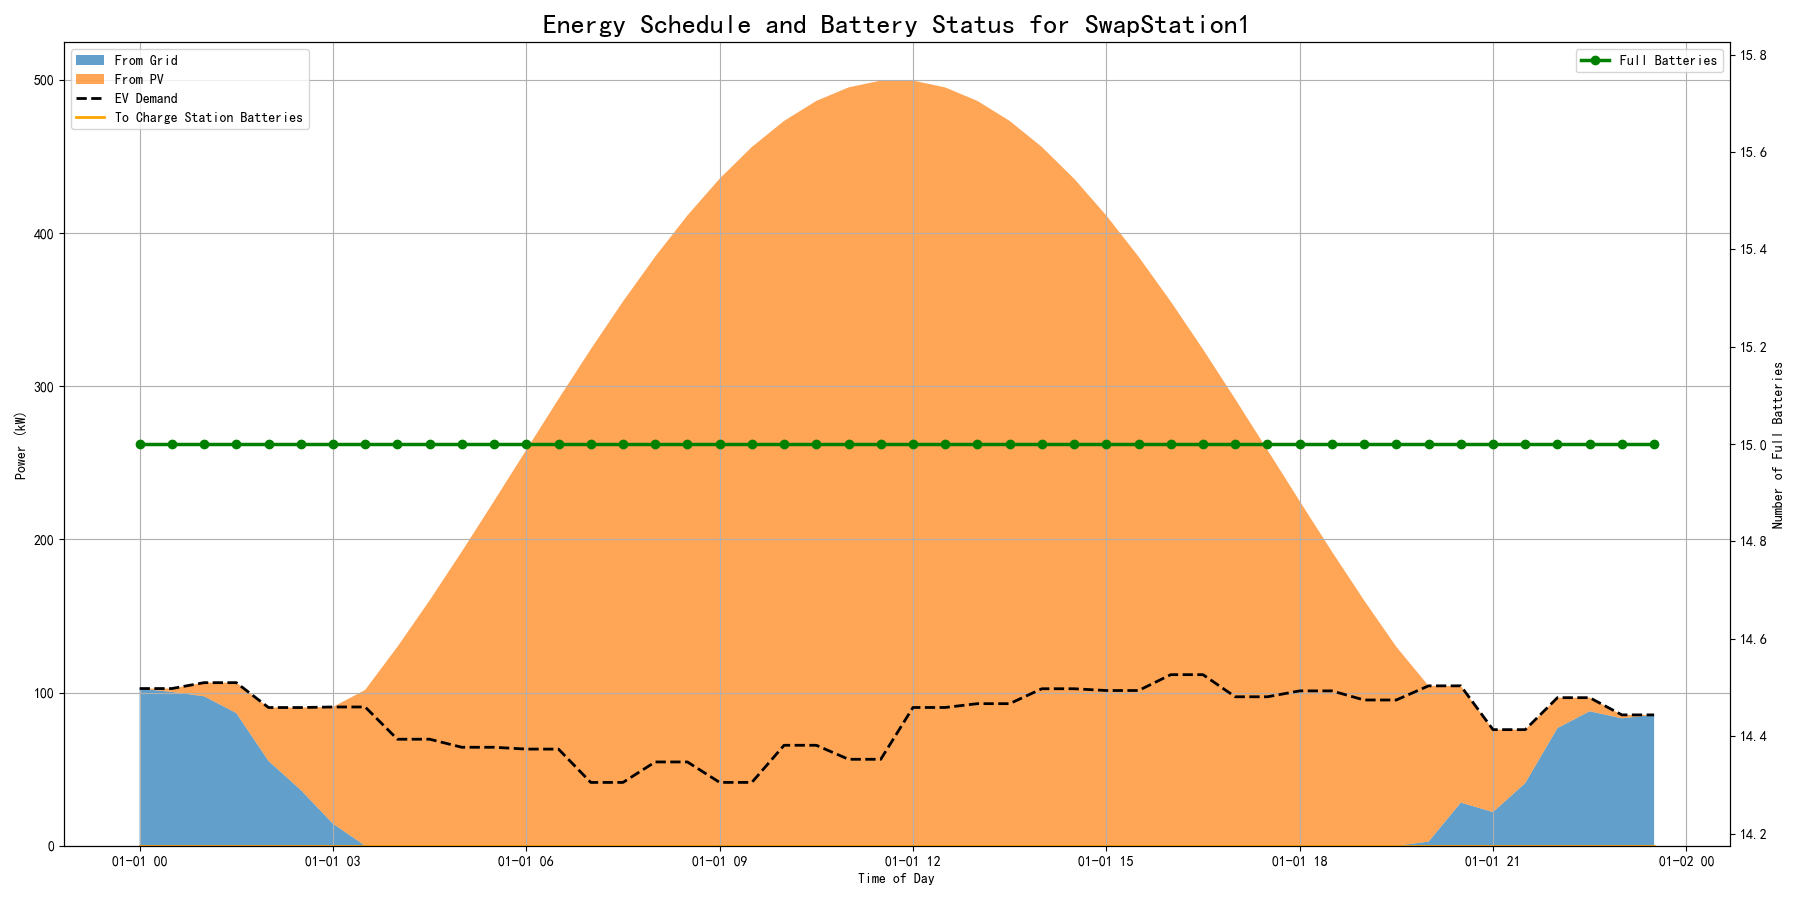
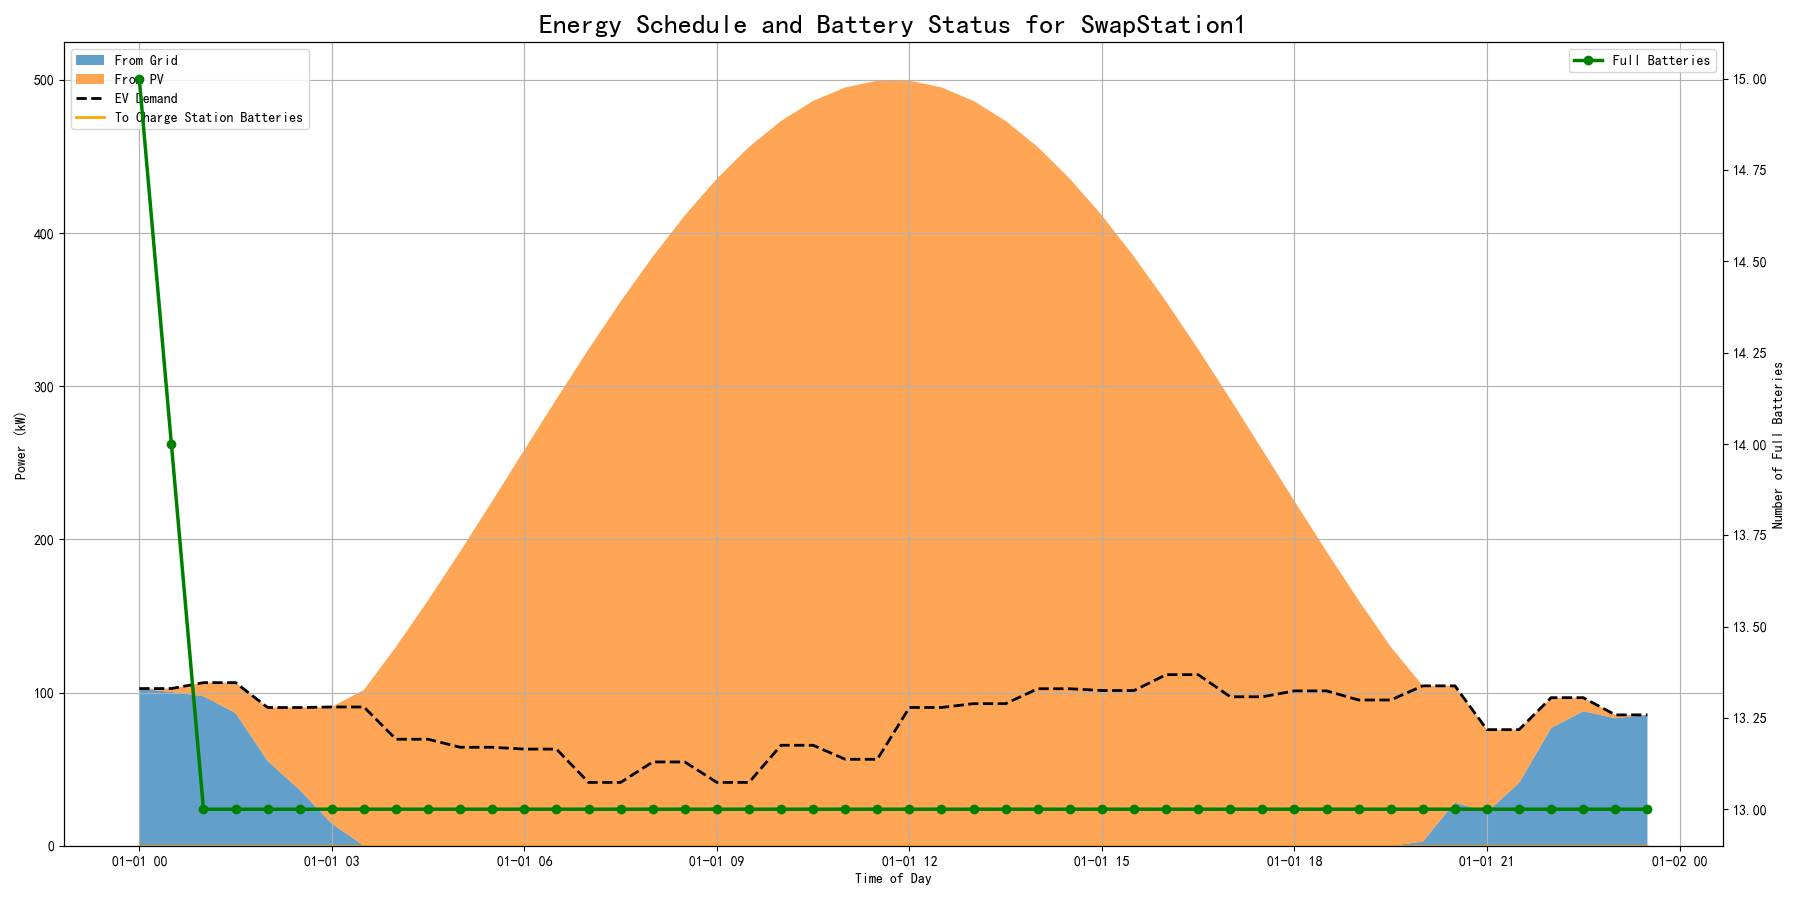
更新V2逻辑，增加可视化

diff --git a/HDT_Swapping_Optimization/src/modeling/model_final.py b/HDT_Swapping_Optimization/src/modeling/model_final.py
@@ -27,7 +27,7 @@ def create_final_model(data):
     # --- 2. 决策变量 ---
     model.x = Var(model.LOCATIONS, model.LOCATIONS, model.VEHICLES, within=Binary)
     model.y = Var(model.LOCATIONS, model.VEHICLES, within=Binary)
-    model.is_task_unassigned = Var(model.TASKS, within=Binary)
+    # model.is_task_unassigned = Var(model.TASKS, within=Binary)
     model.arrival_time = Var(model.LOCATIONS, model.VEHICLES, within=NonNegativeReals)
     model.soc_arrival = Var(model.LOCATIONS, model.VEHICLES, within=NonNegativeReals)
     model.weight_on_arrival = Var(model.LOCATIONS, model.VEHICLES, within=NonNegativeReals)
@@ -50,8 +50,9 @@ def create_final_model(data):
         grid_cost = sum(m.P_grid[s, t] * config.TIME_STEP_HOURS * data['electricity_prices'][t] for s, t in m.P_grid)
         delay_penalty = config.DELAY_PENALTY_PER_HOUR * sum(m.task_delay.values())
         ev_penalty = config.EV_UNSERVED_PENALTY_PER_KWH * sum(m.ev_unserved.values())
-        unassigned_penalty = config.UNASSIGNED_TASK_PENALTY * sum(m.is_task_unassigned.values())
-        return travel_cost + swap_cost + grid_cost + delay_penalty + ev_penalty + unassigned_penalty
+        # unassigned_penalty = config.UNASSIGNED_TASK_PENALTY * sum(m.is_task_unassigned.values())
+        # return travel_cost + swap_cost + grid_cost + delay_penalty + ev_penalty + unassigned_penalty
+        return travel_cost + swap_cost + grid_cost + delay_penalty + ev_penalty
 
     model.objective = Objective(rule=objective_rule, sense=minimize)
 
@@ -67,7 +68,8 @@ def create_final_model(data):
     # -- 任务与客户服务约束 --
     for t, t_info in data['tasks'].items():
         customer = t_info['delivery_to']
-        model.constrs.add(sum(model.y[customer, k] for k in model.VEHICLES) + model.is_task_unassigned[t] == 1)
+        # model.constrs.add(sum(model.y[customer, k] for k in model.VEHICLES) + model.is_task_unassigned[t] == 1)
+        model.constrs.add(sum(model.y[customer, k] for k in model.VEHICLES) == 1)
     for c in model.CUSTOMERS:
         model.constrs.add(sum(model.y[c, k] for k in model.VEHICLES) <= 1)
 

diff --git a/HDT_Swapping_Optimization/main_workflow_final.py b/HDT_Swapping_Optimization/main_workflow_final.py
@@ -49,13 +49,19 @@ def run_final_workflow():
 
         print("\n--- [诊断] 任务完成情况 ---")
         for t in model.TASKS:
-            if value(model.is_task_unassigned[t]) > 0.5:
-                print(f"  - 任务 '{t}' 被放弃，产生了 {config.UNASSIGNED_TASK_PENALTY} 的罚款。")
+            # if value(model.is_task_unassigned[t]) > 0.5:
+            #     print(f"  - 任务 '{t}' 被放弃，产生了 {config.UNASSIGNED_TASK_PENALTY} 的罚款。")
+            customer = model_data['tasks'][t]['delivery_to']
+            assigned_vehicle = next(
+                (k for k in model.VEHICLES if value(model.y[customer, k]) > 0.5),
+                None)
+            if assigned_vehicle is None:
+                print(f"  - 任务 '{t}' 无车辆完成，模型可能不可行。")
             else:
-                customer = model_data['tasks'][t]['delivery_to']
-                assigned_vehicle = next(
-                    (k for k in model.VEHICLES if value(model.y[customer, k]) > 0.5),
-                    "未知车辆")
+                # customer = model_data['tasks'][t]['delivery_to']
+                # assigned_vehicle = next(
+                #     (k for k in model.VEHICLES if value(model.y[customer, k]) > 0.5),
+                #     "未知车辆")
                 delay = value(model.task_delay[t, assigned_vehicle])
                 if delay > 1e-6:
                     print(f"  - 任务 '{t}' 由车辆 '{assigned_vehicle}' 完成，延迟 {delay:.2f} 小时。")

diff --git a/HDT_Swapping_Optimization/src/common/config_final.py b/HDT_Swapping_Optimization/src/common/config_final.py
@@ -37,7 +37,7 @@ LINE_THERMAL_LIMIT_MVA = 2.0
 # --- HDT 物理参数 ---
 LOADING_UNLOADING_TIME_HOURS = 0.5
 SWAP_DURATION_HOURS = 0.25
-HDT_BATTERY_CAPACITY_KWH = 2000.0
+HDT_BATTERY_CAPACITY_KWH = 99999999999
 HDT_MIN_SOC_KWH = HDT_BATTERY_CAPACITY_KWH * 0.15
 HDT_EMPTY_WEIGHT_TON = 10.0
 HDT_AVERAGE_SPEED_KMPH = 60.0
